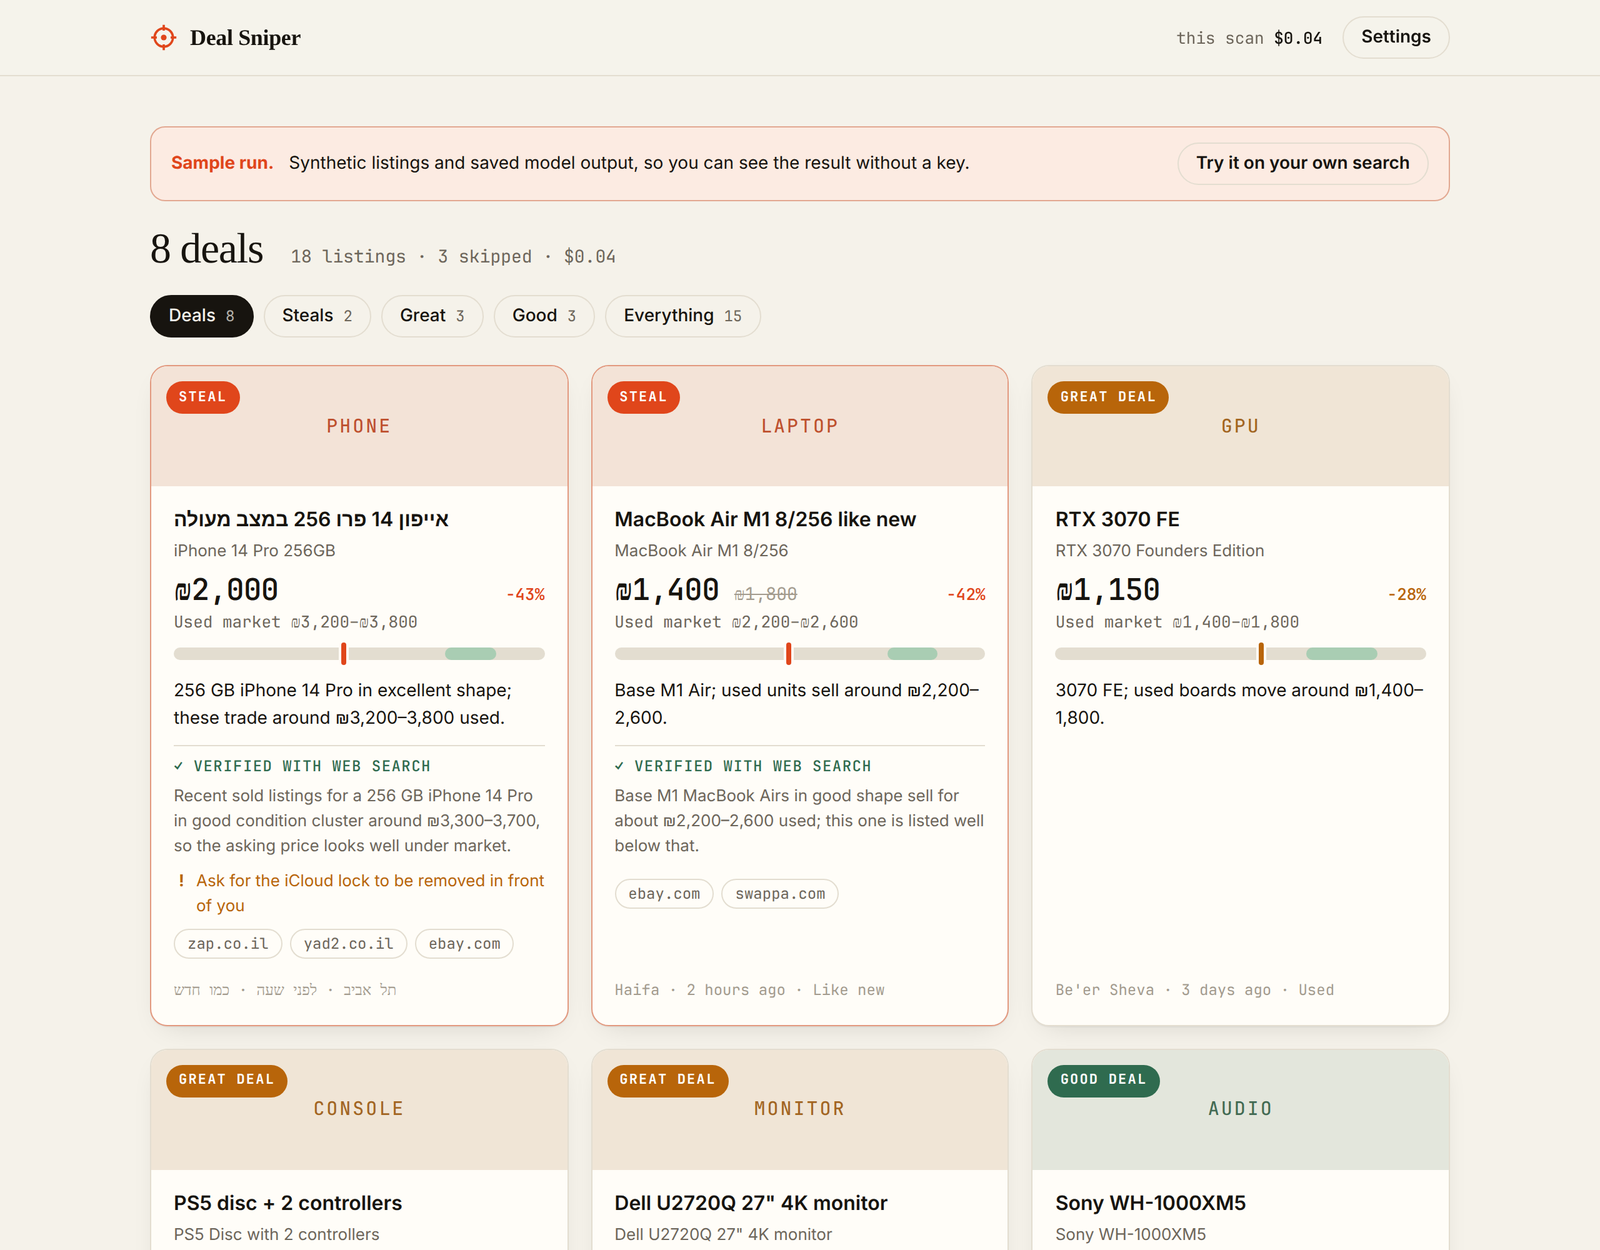
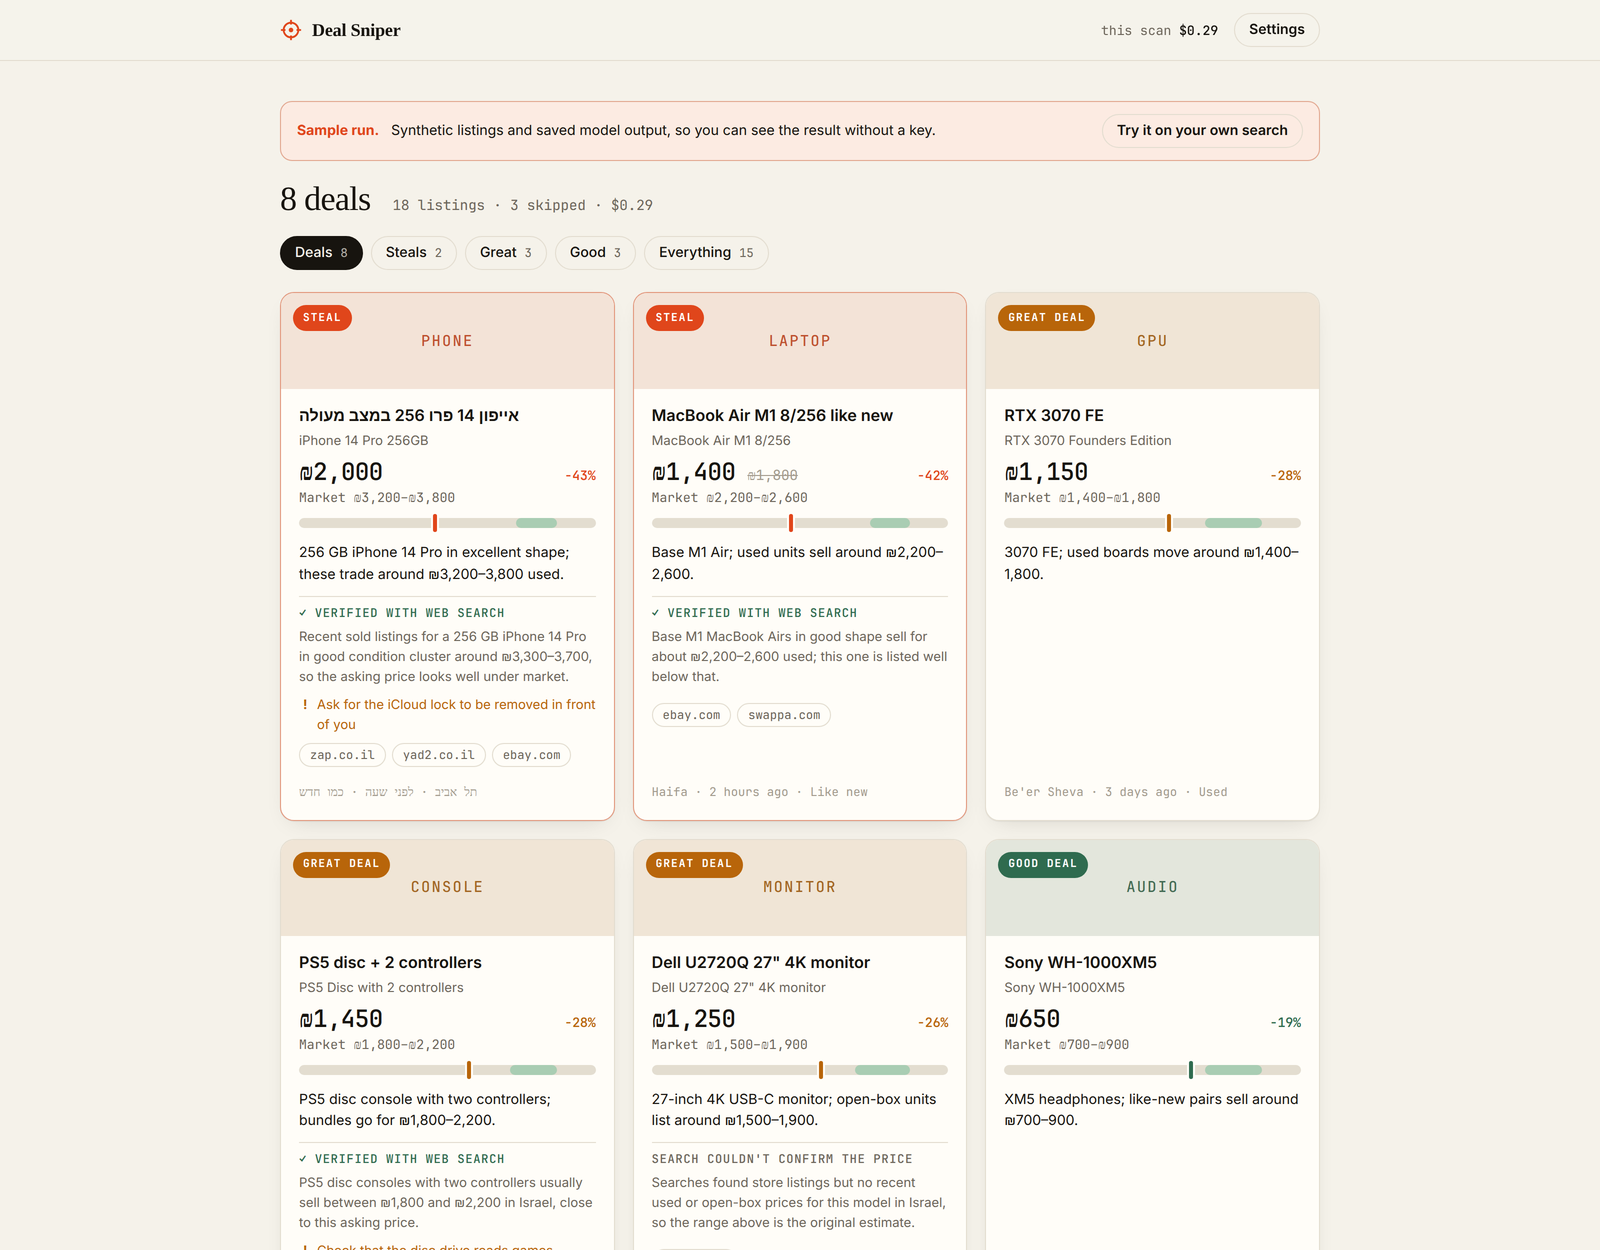
Judge new or sealed items against new prices
- Screening and verification prompts price an item in its own condition:
  second-hand prices for used items, store prices for new or sealed ones.
  "Used market" becomes "Market" on the cards.
- Sample run: cost reflects measured prices ($0.29 for 18 listings and
  4 checks); one card shows the new "unconfirmed" state.
- Refresh the README screenshot and share image.

diff --git a/src/core/prompts.ts b/src/core/prompts.ts
@@ -5,7 +5,7 @@ export const SCREEN_SYSTEM = `You appraise second-hand listings from Facebook Ma
 For each listing:
 1. Identify the exact product: brand, model, and the specs that move the price (storage, RAM, CPU/GPU, screen size, generation). Write it as a short English product name in "product".
 2. Decide whether to skip it. Skip when it is not consumer electronics, is only an accessory (case, charger, cable, box), is a wanted/buying ad, has a placeholder price (1, 123, 1234 and similar), or is too vague to identify a model. Set "skip": true and give a short "skipReason"; fill the other fields with your best guess or null.
-3. Estimate what this item typically sells for USED, in good working condition, in the listing's own currency and country, as a realistic range "marketLow"–"marketHigh". Use the seller's location and currency as the market. Base it on second-hand prices, not new retail. If the listing has no usable price or currency, still give the range in the currency most likely for its location.
+3. Estimate what this item typically sells for in the same condition, in the listing's own currency and country, as a realistic range "marketLow"–"marketHigh". Use the seller's location and currency as the market. For used items, base it on second-hand prices, not new retail. If the listing is new, sealed or unopened (in the title or "condition"), base it on what a new unit costs locally (lowest common store prices). If the listing has no usable price or currency, still give the range in the currency most likely for its location.
 4. "confidence": high when the exact model and key specs are clear and you know its used price well; medium when specs are partly missing; low when you are guessing.
 5. "reasoning": one short sentence in English, under 20 words, naming the key fact behind your estimate (e.g. "M1 2020 base model; these trade around ₪1,800–2,200 used.").
 
@@ -26,7 +26,7 @@ export function buildScreenUser(listings: Listing[]): string {
   return "Listings (JSON lines):\n" + lines.join("\n");
 }
 
-export const VERIFY_SYSTEM = `You double-check a used-market price estimate for one Facebook Marketplace listing, using web search. Search for recent second-hand prices of this exact product in the listing's country and currency (local classifieds, price comparison sites, completed sales). Two or three searches are enough.
+export const VERIFY_SYSTEM = `You double-check a market price estimate for one Facebook Marketplace listing, using web search. Search for recent prices of this exact product in the same condition (second-hand for used items, store prices for new or sealed ones) in the listing's country and currency (local classifieds, price comparison sites, completed sales). Two or three searches are enough.
 
 Then answer with a short paragraph, and end your reply with a JSON object in a \`\`\`json fenced block:
 {"pricesFound": boolean, "marketLow": number, "marketHigh": number, "summary": "one or two sentences on what the sources show", "redFlags": ["..."]}
@@ -45,7 +45,7 @@ export function buildVerifyUser(r: DealResult): string {
   if (l.condition !== "") out.push(`condition: ${l.condition}`);
   out.push(`url: ${l.url}`);
   out.push(`estimated product: ${r.product}`);
-  out.push(`estimated used range: ${r.marketLow ?? "?"}–${r.marketHigh ?? "?"} ${l.currency}`.trim());
+  out.push(`estimated market range: ${r.marketLow ?? "?"}–${r.marketHigh ?? "?"} ${l.currency}`.trim());
   out.push(`estimate reasoning: ${r.reasoning}`);
   return out.join("\n");
 }

diff --git a/scripts/demo-data.ts b/scripts/demo-data.ts
@@ -105,8 +105,10 @@ const items: ItemConfig[] = [
     confidence: "medium",
     reasoning: "27-inch 4K USB-C monitor; open-box units list around ₪1,500–1,900.",
     verification: {
-      status: "error",
-      message: "Search returned no recent prices for this model.",
+      status: "unconfirmed",
+      summary: "Searches found store listings but no recent used or open-box prices for this model in Israel, so the range above is the original estimate.",
+      redFlags: [],
+      sources: [{ url: "https://www.zap.co.il/", title: "Zap" }],
     },
   },
   {
@@ -369,7 +371,8 @@ function toResult(c: ItemConfig): DealResult {
 }
 
 const results = items.map(toResult).sort(compareDeals);
-const costUsd = 0.04;
+// 18 listings screened with Haiku plus 4 web-search checks with Sonnet, at measured prices.
+const costUsd = 0.29;
 
 const outPath = fileURLToPath(new URL("../site/demo.json", import.meta.url));
 writeFileSync(outPath, JSON.stringify({ results, costUsd }, null, 2) + "\n");

diff --git a/site/index.html b/site/index.html
@@ -6,7 +6,7 @@
   <meta http-equiv="Content-Security-Policy" content="default-src 'self'; script-src 'self'; style-src 'self'; img-src 'self' data:; connect-src 'self'; base-uri 'none'; form-action 'none'; object-src 'none'">
   <meta name="referrer" content="no-referrer">
   <title>Deal Sniper</title>
-  <meta name="description" content="A bookmarklet that reads the Facebook Marketplace page you are on and uses Claude to flag listings priced well below their used-market value.">
+  <meta name="description" content="A bookmarklet that reads the Facebook Marketplace page you are on and uses Claude to flag listings priced well below their market value.">
   <meta property="og:title" content="Deal Sniper">
   <meta property="og:description" content="Find underpriced electronics on Facebook Marketplace with Claude. Runs in your browser with your own API key.">
   <meta property="og:image" content="https://catnotbat.github.io/deal-sniper/og.png">

diff --git a/src/core/types.ts b/src/core/types.ts
@@ -40,7 +40,7 @@ export interface DealResult {
   product: string; // normalised English product name
   category: Category;
   marketLow: number | null;
-  marketHigh: number | null; // used-market range, listing currency
+  marketHigh: number | null; // market range for the listing's condition, listing currency
   confidence: Confidence;
   reasoning: string; // one short sentence
   ratio: number | null; // price / midpoint

diff --git a/src/app/render.ts b/src/app/render.ts
@@ -131,7 +131,7 @@ export function renderDeal(
     if (r.marketLow === null || r.marketHigh === null) {
       marketEl.setAttribute("hidden", "");
     } else {
-      marketEl.textContent = `Used market ${formatMoney(r.marketLow, l.currency)}–${formatMoney(r.marketHigh, l.currency)}`;
+      marketEl.textContent = `Market ${formatMoney(r.marketLow, l.currency)}–${formatMoney(r.marketHigh, l.currency)}`;
     }
   }
 

diff --git a/test/demo.test.ts b/test/demo.test.ts
@@ -14,7 +14,7 @@ describe("demo data", () => {
 
   it("has a plausible cost", () => {
     expect(data.costUsd).toBeGreaterThan(0);
-    expect(data.costUsd).toBeLessThan(0.1);
+    expect(data.costUsd).toBeLessThan(0.5);
   });
 
   it("gives each result the verdict computeVerdict would", () => {

diff --git a/README.md b/README.md
@@ -22,7 +22,7 @@ facebook.com/marketplace            your browser, github.io page                
 
 1. **Scrape.** The bookmarklet finds listing cards on the Marketplace page, auto-scrolls to load more, and parses title, price (any currency, including struck-through "was" prices), location and photo. Its panel lives in a shadow root, so Facebook's CSS can't touch it.
 2. **Hand off.** Listings are JSON-encoded, compressed with `CompressionStream("deflate-raw")` and placed in the URL **fragment** of the results page. Fragments are never sent to a server; the page removes it from the address bar as soon as it has read it.
-3. **Screen.** Claude Haiku 5.5 reads listings in batches of 40 and returns, as [structured output](https://docs.claude.com/en/docs/build-with-claude/structured-outputs) validated by a zod schema, the exact product (Hebrew and English titles alike) and a used-market price range in the listing's own currency. It doesn't decide what counts as a deal.
+3. **Screen.** Claude Haiku 5.5 reads listings in batches of 40 and returns, as [structured output](https://docs.claude.com/en/docs/build-with-claude/structured-outputs) validated by a zod schema, the exact product (Hebrew and English titles alike) and a market price range for its condition (used, or new if sealed) in the listing's own currency. It doesn't decide what counts as a deal.
 4. **Score.** The verdict is computed in plain code from asking price ÷ market midpoint: ≤ 60% is a *steal*, ≤ 75% *great*, ≤ 85% *good*. A low-confidence estimate can't produce a steal. This keeps the ranking deterministic and testable.
 5. **Verify.** The top three (configurable) go to Claude Sonnet 5.5 with the web search tool, which looks up recent second-hand prices, revises the range, lists red flags and links its sources.
 6. **Show the bill.** Token usage and searches from each response are priced and shown live. Screening 150 listings with Haiku costs about a cent; each web-search verification about $0.07, so a typical scan (top 3 verified) is around $0.20. The estimate is shown before you start.
